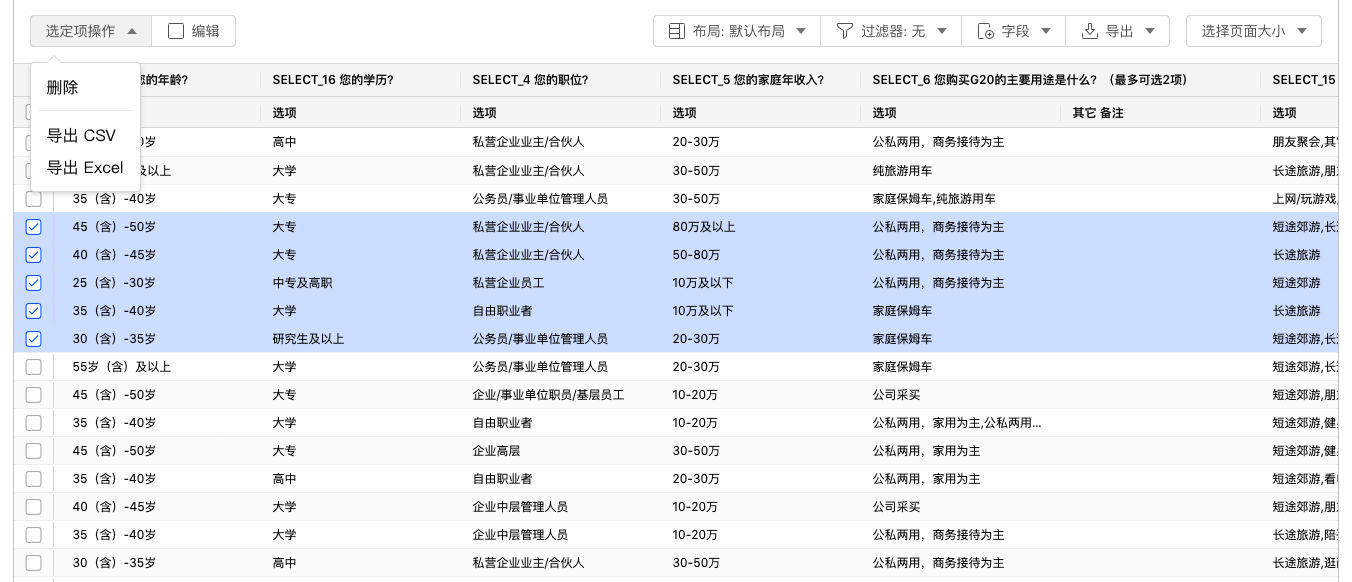
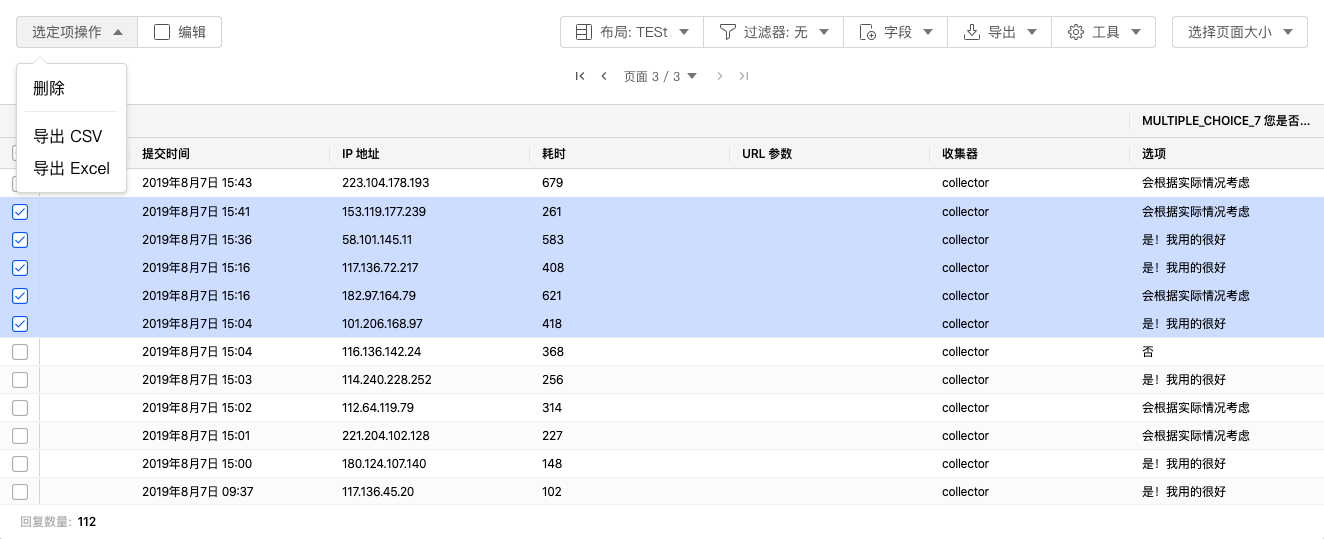
add build test data

diff --git a/doc/zh-cn/09dataResult/02dataTable/06dataFilter.md b/doc/zh-cn/09dataResult/02dataTable/06dataFilter.md
@@ -1,5 +1,5 @@
 ---
-  index: 5
+  index: 6
   tags: [过滤器, 设定数据过滤器, 插入新的条件, 插入新的条件集, 删除数据过滤条件, 保存过滤器, 应用过滤器, 搜索过滤条件, 切换数据过滤器, 删除数据过滤器, 数据表格, 数据结果]
   summary: 数据过滤器提供强大的数据过滤功能，设定数据筛选条件，为您精准筛选出符合复杂逻辑关联条件数据集合。
 
@@ -21,7 +21,7 @@
 
 下图==管理过滤条件==对话框中的高亮区域是==数据过滤条件编辑器==。
 
-<img src='../assets/02dataTable//05dataFilter/dataFilterConditionSet.png'>
+<img src='../assets/02dataTable//06dataFilter/dataFilterConditionSet.png'>
 
 图中，已经增加了2个数据过滤==条件==设定，分别是：
 
@@ -30,7 +30,7 @@
 
 以上2个条件设定的逻辑运算方式为==AND==，点击菜单可切换为==OR==。
 
-<img src='../assets/02dataTable//05dataFilter/dataFilterConditionSetLogicSet.png'>
+<img src='../assets/02dataTable//06dataFilter/dataFilterConditionSetLogicSet.png'>
 
 以上2个条件和运算方式设定构成1个数据过滤==条件集==。
 
@@ -38,23 +38,23 @@
 
 点击==插入新的条件==按钮，在当前==条件集==中增加1个新条件。
 
-<img src='../assets/02dataTable//05dataFilter/addDataFilterCondition.png'>
+<img src='../assets/02dataTable//06dataFilter/addDataFilterCondition.png'>
 
 点击==请选择==弹出包含问卷所有题目的菜单，从中选择需要筛选数据的题目。
 
 选择完毕后，题目右侧显示==操作==按钮，点击后弹出数据判断操作选项。
 
-<img src='../assets/02dataTable//05dataFilter/addDataFilterCondition2.png'>
+<img src='../assets/02dataTable//06dataFilter/addDataFilterCondition2.png'>
 
 依次设定后，就完成了新增数据过滤条件的设定。
 
-<img src='../assets/02dataTable//05dataFilter/addDataFilterCondition3.png'>
+<img src='../assets/02dataTable//06dataFilter/addDataFilterCondition3.png'>
 
 ### 插入新的条件集
 
 点击==插入新的条件集==按钮，在当前==条件集==中增加1个新条件集。
 
-<img src='../assets/02dataTable//05dataFilter/addDataFilterConditionSet.png'>
+<img src='../assets/02dataTable//06dataFilter/addDataFilterConditionSet.png'>
 
 新条件集的设定方法与设定新条件相同。
 
@@ -62,13 +62,13 @@
 
 点击数据过滤条件最右侧的==删除==按钮，删除当前条件。
 
-<img src='../assets/02dataTable//05dataFilter/deleteDataFilterCondition.png'>
+<img src='../assets/02dataTable//06dataFilter/deleteDataFilterCondition.png'>
 
 ### 保存并应用
 
 保存前，设定过滤器名称为==出行及人数筛选过滤器==，设定完毕后，点击==保存并应用==，将自动过滤并显示符合条件的数据结果。
 
-<img src='../assets/02dataTable//05dataFilter/applyDataFilter.png'>
+<img src='../assets/02dataTable//06dataFilter/applyDataFilter.png'>
 
 ### 搜索过滤条件
 
@@ -78,10 +78,10 @@
 
 点击==过滤器==弹出当前所有数据过滤器列表，从中选择过滤器并筛选数据。
 
-<img src='../assets/02dataTable//05dataFilter/selectDataFilter.png'>
+<img src='../assets/02dataTable//06dataFilter/selectDataFilter.png'>
 
 ## 删除数据过滤器
 
 当数据过滤器没有被使用时，==管理过滤条件==对话框里的过滤器名称右侧会显示==删除==按钮，点击后删除该数据过滤器。
 
-<img src='../assets/02dataTable//05dataFilter/deleteDataFilter.png'>
+<img src='../assets/02dataTable//06dataFilter/deleteDataFilter.png'>

diff --git a/doc/zh-cn/09dataResult/02dataTable/04customDataTableLayout.md b/doc/zh-cn/09dataResult/02dataTable/04customDataTableLayout.md
@@ -1,7 +1,7 @@
 ---
   index: 4
   tags: [创建数据表格布局, 创建新布局, 布局名称, 数据列设置, 数据列卡片, 隐藏数据列, 使用布局, 编辑布局, 数据表格布局, 数据表格, 数据结果]
-  summary: 数据表格里我想看的数据列分得太开了，最好能个性化地排列下，特别是能隐藏某些列就更好了，数据表格布局帮助您个性化地调整数据表格布局。
+  summary: 个性化地排列数据表格里的数据列顺序，还能隐藏指定数据列，数据表格布局帮助您个性化地调整数据表格布局，提高数据查看效率。
 
 
 ---
@@ -21,15 +21,26 @@
 
 <img src='../assets/02dataTable/04customDataTableLayout/newLayout.png'>
 
-### 布局名称
+默认情况下会按照目前的表格排列布局显示所有列，每列以一张卡片形式呈现，通过调整卡片位置排列新的布局，或者点击==隐藏全部列==后逐个添加需要显示的列，从而生成满意的布局。
 
-设定当前布局名称并保存。
+## 隐藏全部列
 
-### 列设置
+当需要调整的数据列较多时，逐列调整数列据卡片很不方便，这时可以先隐藏全部数据列，再按期望的顺序添加数据列。点击==隐藏全部列==并确认后，会清空所有数列据卡片。
+
+<img src='../assets/02dataTable/04customDataTableLayout/clearDataColumnCard.png'>
+
+## 布局名称
+
+设定当前布局名称。
+
+## 列设置
+
+设置当前布局列的排列规则。
 
 ### 数据列卡片
 
 为每列数据生成一张数据列卡片，数据列卡片的左右顺序代表最终数据表格中的数据列顺序。
+
 数据列卡片底部是数据卡片操作按钮，功能为：
 
 <img src='../assets/02dataTable/04customDataTableLayout/dataColumnCard.png'>
@@ -42,15 +53,12 @@
 
 + 移动当前数据列：点击后弹出显示当前所有可见的数据列名称，点选数据列名称后，将当前数据列移动到指定列之后。
 
-<img src='../assets/02dataTable/04customDataTableLayout/dataColumnCardArrange.png'>
+<img src='../assets/02dataTable/04customDataTableLayout/dataColumnCardMove.png'>
 
 + 增加数据列：当数据列被隐藏后，数据列卡片上方左右角会显示2个添加数据列按钮。点击按钮弹出可添加的数据列清单，点选数据列后在当前数据卡片的左侧或右侧插入数据列。
 
-### 隐藏全部列
+<img src='../assets/02dataTable/04customDataTableLayout/dataColumnCardArrange.png'>
 
-当需要调整的数据列较多时，逐列调整数列据卡片很不方便，这时可以先隐藏全部数据列，再按期望的顺序添加数据列。点击==隐藏全部列==并确认后，会清空所有数列据卡片。
-
-<img src='../assets/02dataTable/04customDataTableLayout/clearDataColumnCard.png'>
 
 点击==添加列==，在弹出菜单中逐一添加数据列。
 
@@ -62,4 +70,4 @@
 
 ## 编辑布局
 
-点击数据表格==布局==按钮，点击==管理布局==，在弹出对话框中点击==编辑==按钮编辑对应的布局。
+点击数据表格==布局==按钮，点击==管理布局==，在弹出对话框中点击==编辑==按钮编辑所选的布局。

diff --git a/doc/zh-cn/20teamAdministration/02teamAdministration/03division.md b/doc/zh-cn/20teamAdministration/02teamAdministration/03division.md
@@ -1,6 +1,6 @@
 ---
   index: 3
-  tags: [分组, 角色, 权限, 成员, 团队成员, 添加成员, 邀请成员, 协同, 团队, 团队协同]
+  tags: [分组, 分组管理, 角色, 权限, 成员, 团队成员, 添加成员, 邀请成员, 协同, 团队, 团队协同]
   summary: 参照企业组织结构创建分组，使线上的虚拟团队与现实中的部门划分保持一致，各司其职。
 
 
@@ -16,7 +16,7 @@
 
 ## 创建分组
 
-点击右上角创建分组按钮，并输入分组名称和描述信息后，在当前团队中创建一个分组。
+点击右上角==创建分组==按钮，并输入分组名称和描述信息后，在当前团队中创建一个分组。
 
 <img src='../assets/02teamAdministration/03division/newDivision.png'>
 
@@ -26,15 +26,15 @@
 
 ## 分组设置
 
-点击分组名称最右边按钮在弹出菜单中选择分组设置，在弹出对话框中进行设置并保存。
+点击分组名称最右边按钮在弹出菜单中选择==分组设置==，在弹出对话框中进行设置并保存。
 
 ## 删除分组
 
-点击分组名称最右边按钮在弹出菜单中选择删除分组，在弹出对话框中确认后删除当前分组。
+点击分组名称最右边按钮在弹出菜单中选择==删除分组==，在弹出对话框中确认后删除当前分组。
 
 ## 添加分组成员
 
-创建分组后，还需要为分组添加相关团队成员。点击分组名称右侧的添加成员按钮，弹出添加成员对话框。
+创建分组后，还需要为分组添加相关团队成员。点击分组名称右侧的==添加成员==按钮，弹出添加成员对话框。
 
 <img src='../assets/02teamAdministration/03division/addDivisionMember.png'>
 
@@ -48,7 +48,7 @@
 
 ## 设置分组成员角色
 
-成员在分组可以被设置与团队角色不同的分组角色。点击成员角色头像，在下拉菜单中选中更新角色，随后在弹出对话框中为成员分配新的角色。
+点击成员角色头像，在下拉菜单中选择==更新角色==，随后在弹出对话框中为成员分配新的角色。成员在分组中的角色不同于该成员在团队中的角色，最终该成员将拥有其被设定的所有角色的权限。
 
 <img src='../assets/02teamAdministration/03division/divisionListWithMemberConfig.png'>
 
@@ -56,6 +56,6 @@
 
 ## 删除分组成员
 
-点击成员角色头像，在下拉菜单中选中从分组中移除，在弹出对话框中确认从分组中删除除该成员。
+点击成员角色头像，在下拉菜单中选择==从分组中移除==，在弹出对话框中确认从分组中删除除该成员。
 
 > 必须拥有分组管理权限才能进行分组设置。

diff --git a/doc/zh-cn/20teamAdministration/02teamAdministration/02role.md b/doc/zh-cn/20teamAdministration/02teamAdministration/02role.md
@@ -1,6 +1,6 @@
 ---
   index: 2
-  tags: [角色, 权限, 成员, 团队成员, 添加成员, 邀请成员, 协同, 团队, 团队协同]
+  tags: [角色, 权限, 权限管理, 成员, 团队成员, 添加成员, 邀请成员, 协同, 团队, 团队协同]
   summary: 根据不同的岗位职责和工作内容创建角色，有序开展工作。
 
 
@@ -8,7 +8,7 @@
 
 # 角色
 
-一个角色可以获得多个不同权限，一个角色可以分配给多个不同成员，成员通过角色获得最终权限。
+一个角色可以获得多个不同权限，同一个角色可以分配给多个不同成员，成员通过角色获得最终权限。
 
 <img src='../assets/02teamAdministration/02role/role.png'>
 
@@ -16,7 +16,7 @@
 
 ## 创建角色
 
-点击创建角色，在对话框中设定角色名称和权限。权限分项目、数据和管理3个。
+点击==创建角色==，在对话框中设定角色名称和权限。权限分项目、数据和管理3个。
 
 <img src='../assets/02teamAdministration/02role/roleConfig.png'>
 
@@ -31,7 +31,7 @@
 + 团队权限
 
   | 项目 |可设定的权限|
-  |:---:|:--------:|  
+  |:---:|:--------:|
   |配额|管理 / 无|
   |表格|管理 / 无|
   |分析|管理 / 无|
@@ -62,11 +62,11 @@
 
 ## 更改角色权限
 
-点击角色名称最右边按钮在弹出菜单中选择更改角色权限，在弹出对话框中进行设置并保存。
+点击角色名称最右边按钮在弹出菜单中选择==更改角色权限==，在弹出对话框中进行设置并保存。
 
 ## 删除角色
 
-点击角色名称最右边按钮在弹出菜单中选择删除，在弹出对话框中确认后删除该角色。
+点击角色名称最右边按钮在弹出菜单中选择==删除==，在弹出对话框中确认后删除该角色。
 
 > 管理员和员工角色无法删除，他们是每个团队必须的最基础的角色。
 

diff --git a/doc/zh-cn/09dataResult/02dataTable/05dataTool.md b/doc/zh-cn/09dataResult/02dataTable/05dataTool.md
@@ -1,0 +1,41 @@
+---
+  index: 5
+  tags: [生成测试，测试数据, 测试, 测试问卷, 工具, 数据表格, 数据结果]
+  summary: 在问卷正式上线前，自动生成批量测试数据。
+
+
+---
+
+
+
+# 工具
+
+## 生成测试
+
+在问卷正式上线前，可以通过测试问卷体验被访者的回复过程，并检查问卷跳转逻辑和相关设定的正确性，但测试问卷数据不会被记录，这时可以使用生成cesium功能自动生成批量测试数据。
+
+进入数据表格版块，点击生成测试按钮。
+
+<img src='../assets/02dataTable/05dataTool/noDataResult.png'>
+
+在弹出窗口中设定数量，随后点击开始测试。
+
+<img src='../assets/02dataTable/05dataTool/buildTestData.png'>
+
+系统开始自动生成测试数据，并反馈在对话框中，生成完毕后关闭对话框。
+
+<img src='../assets/02dataTable/05dataTool/buildingTestData.png'>
+
+随后，可以看到系统已经生成相关测试数据，测试数据无法在系统中进行数据分析，但用户可以下载测试数据进行进一步检查。
+
+<img src='../assets/02dataTable/05dataTool/testDataResult.png'>
+
+## 添加测试数据
+
+在工具下拉列表中点击生成测试，输入数量后，在当前数据结果中添加更多测试数据。
+
+<img src='../assets/02dataTable/05dataTool/testDataTool.png'>
+
+测试数据的状态列中的标记为测试数据，而问卷正式发布后收集的数据状态为正式提交，可以通过过滤器单独过滤出测试数据，或者正式提交数据。
+
+<img src='../assets/02dataTable/05dataTool/exportTestData.png'>

diff --git a/doc/zh-cn/20teamAdministration/02teamAdministration/05invoice.md b/doc/zh-cn/20teamAdministration/02teamAdministration/05invoice.md
@@ -13,15 +13,15 @@
 
 ## 财务
 
-列有当前团队账户的资金余额和被锁定金额。
+列有当前团队账户的==资金余额==和被锁定的==预估待结算金额==。
 
 <img src='../assets/02teamAdministration/05invoice/finance.png'>
 
-> 被锁定金额是用户发布了带红包问卷后，为保证被访者能收到红包，系统会按照问卷设定自动计算的金额并预先锁定，当问卷关闭收集器后，剩余资金会自动退回用户账号。
+> 预估带结算金额是用户发布了带红包问卷后，为保证被访者能收到红包，系统按照问卷设定自动计算并预先锁定的金额，当问卷关闭收集器后，剩余资金会自动退回用户账号。
 
 ### 充值
 
-点击充值按钮，通过支付宝、微信、银行转账方式打款充值。
+点击==充值==按钮，目前支持==支付宝==、==微信==、==银行转账==方式打款充值。
 
 ## 交易记录
 
@@ -34,6 +34,6 @@
 
 ### 发票
 
-开票信息，填入并保存后，系统将按输入的内容开具发票。
+填入并保存开票信息后，系统将按输入的内容开具发票。
 
 <img src='../assets/02teamAdministration/05invoice/invoiceInfo.png'>

diff --git a/doc/zh-cn/20teamAdministration/concept.md b/doc/zh-cn/20teamAdministration/concept.md
@@ -17,10 +17,10 @@
 团队成员可以分配不同角色权限完成各自的工作，还可以对成员进行分组管理，提高工作效率。进一步内容参见：
 
 
-[新增团队](./01newTeam.md)
-[成员](./02teamAdministration/01teamMember.md)
-[角色](./02teamAdministration/02role.md)
-[分组](./02teamAdministration/03division.md)
-[活动](./02teamAdministration/04activity.md)
-[账单明细](./02teamAdministration/05invoice.md)
-[团队设置](./02teamAdministration/06teamConfig.md)
+[新增团队](./01newTeam.md)：创建新的团队。
+[成员](./02teamAdministration/01teamMember.md)：团队成员管理。
+[角色](./02teamAdministration/02role.md)：团队角色管理和设定，角色可以配置各项系统权限，并赋予成员。
+[分组](./02teamAdministration/03division.md)：对团队成员进行分组管理，例如按部门分组，使成员管理更清晰。
+[活动](./02teamAdministration/04activity.md)：团队活动操作日志。
+[账单明细](./02teamAdministration/05invoice.md)：团队账户的资金变动情况，以及充值和开票操作。
+[团队设置](./02teamAdministration/06teamConfig.md)：团队基本信息设定。

diff --git a/doc/zh-cn/19dataAnalyse/02dataAnalysisChart.md b/doc/zh-cn/19dataAnalyse/02dataAnalysisChart.md
@@ -62,7 +62,7 @@
 
 <img src='./assets/02dataAnalysisChart/dataAnalysisDataAddFilter.png'>
 
-> 过滤器详细介绍参见[过滤器](../09dataResult/02dataTable/05dataFilter.md)。
+> 过滤器详细介绍参见[过滤器](../09dataResult/02dataTable/06dataFilter.md)。
 
 如下图，对当前数据设定过滤条件，设定为：题目A1中包含任意通勤、旅游选项的数据，系统随后更新数据分析图表，可以看到数据分析图表、样本统计表格都已经更新为最新的筛选数据。此时，样本统计表格中的样品计数就是筛选后得到的总数量。
 
@@ -110,7 +110,7 @@
 
 数据分析卡片中的过滤器选仅对该卡片数据有效，而数据分析工具栏中过滤器会对所有数据生效，是全局的数据过滤器，优先级高于卡片中的过滤器。全局数据过滤器功能与数据表格的过滤器功能完全相同。
 
-> 过滤器详细介绍参见[过滤器](../09dataResult/02dataTable/05dataFilter.md)。
+> 过滤器详细介绍参见[过滤器](../09dataResult/02dataTable/06dataFilter.md)。
 
 ### 导出
 

diff --git a/doc/zh-cn/20teamAdministration/01newTeam.md b/doc/zh-cn/20teamAdministration/01newTeam.md
@@ -8,7 +8,7 @@
 
 # 新增团队
 
-在用户中心下拉菜单中点击我的团队进入团队列表页面，默认情况下，用户不属于任何团队。
+在==用户中心==下拉菜单中点击==我的团队==进入团队列表页面，默认情况下，用户不属于任何团队。
 
 <img src='./assets/01newTeam/newTeam.png'>
 
@@ -17,10 +17,10 @@
 + 团队名称
 + 账单电子邮件，用于接受账单信息的邮箱。
 
-点击右上角新增团队，输入以上信息后创建一个新的团队。
+点击右上角==新增团队==，输入以上信息后创建一个新的团队。
 
 <img src='./assets/01newTeam/addTeamInfo.png'>
 
-成功创建该团队后，当前用户账号自动获得团队的管理员权限。随后，系统将呈现管理团队页面，引导用户进行进一步设定。
+成功创建该团队后，当前用户账号自动获得团队的管理员权限。随后，系统将呈现==团队管理==页面，引导用户进行进一步设定。
 
 <img src='./assets/01newTeam/myTeam.png'>

diff --git a/doc/zh-cn/20teamAdministration/02teamAdministration/06teamConfig.md b/doc/zh-cn/20teamAdministration/02teamAdministration/06teamConfig.md
@@ -1,6 +1,6 @@
 ---
   index: 6
-  tags: [团队设置, 协同, 团队, 团队协同]
+  tags: [账单, 团队设置, 协同, 团队, 团队协同]
   summary: 设置团队头像、开票信息等基础信息。
 
 
@@ -22,6 +22,6 @@
 
 ## 删除团队
 
-团队管理员可以删除当前团队，删除后，包括管理员在内的团队所有成员均无法再访问团队共享内容，应当谨慎操作，并预先备份重要的数据。
+团队管理员可以删除当前团队，删除后，包括管理员在内的团队所有成员均无法再访问团队共享内容，==应当谨慎操作，并预先备份重要的数据==。
 
 <img src='../assets/02teamAdministration/06teamConfig/deleteTeam.png'>

diff --git a/doc/zh-cn/08publish/surveyCollector/07forcast.md b/doc/zh-cn/08publish/surveyCollector/07forcast.md
@@ -19,7 +19,7 @@
 
 ## 复杂度评分
 
-对问卷复杂度进行评分，以码表形式表现，复杂度并不以100分为限制，随着问卷复杂程度对增加，超过100分是完全可能的。此外，系统还会分析极端情况下被访者可能需要完成的题目数量，以及可能需要的完成时间。
+对问卷复杂度进行评分，以码表形式表现，复杂度并不以100分为限制，随着问卷复杂程度对增加，超过100分是完全可能的。此外，系统还会分析极端情况下被访者可能需要完成的题目数量，以及可能需要的完成时间，为用户改进问卷设计、优化投放策略提供参考。
 
 ## 预估结算金额
 
